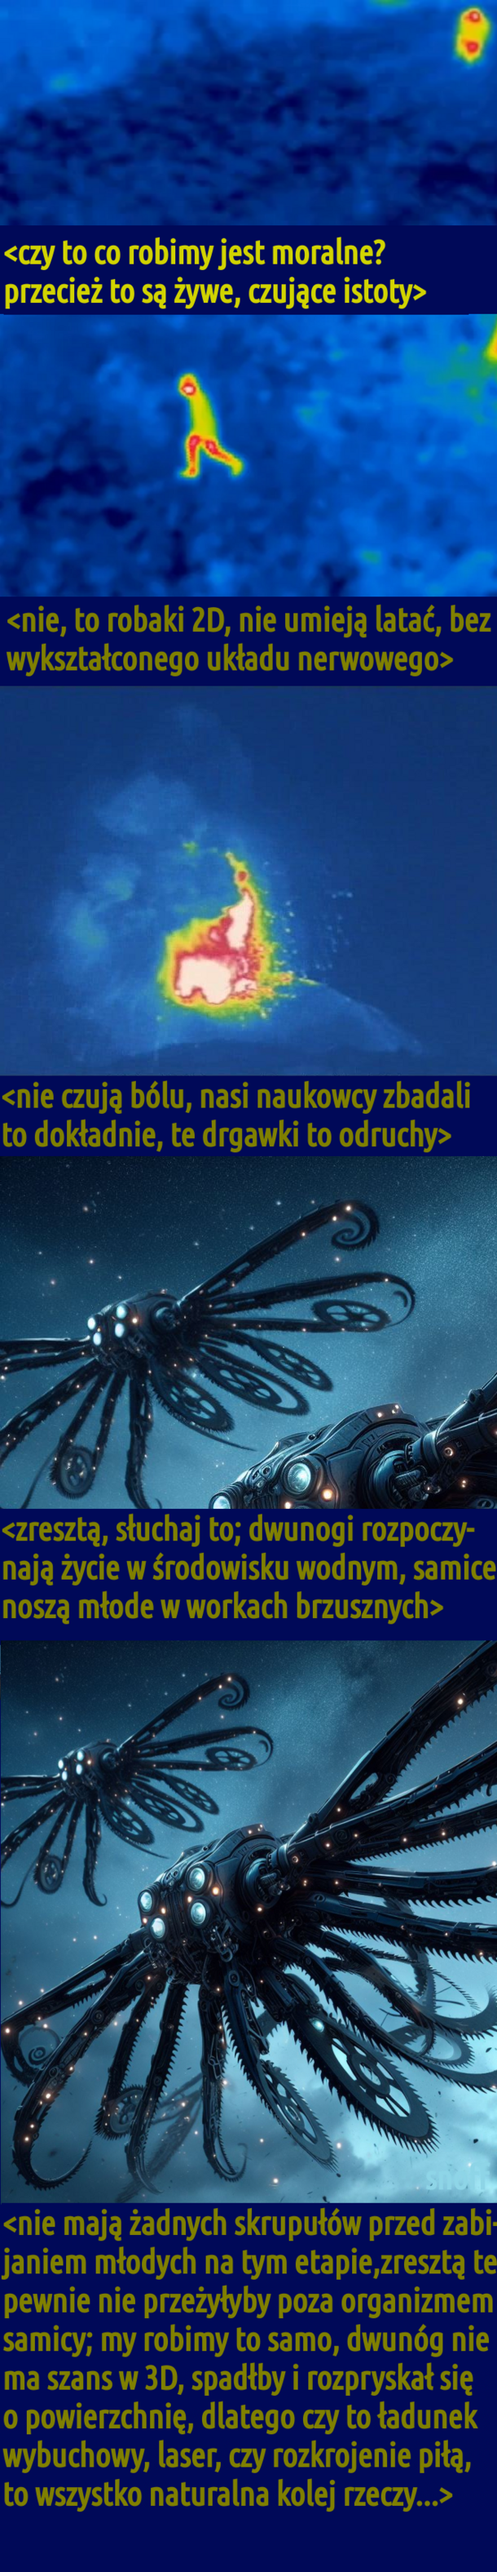
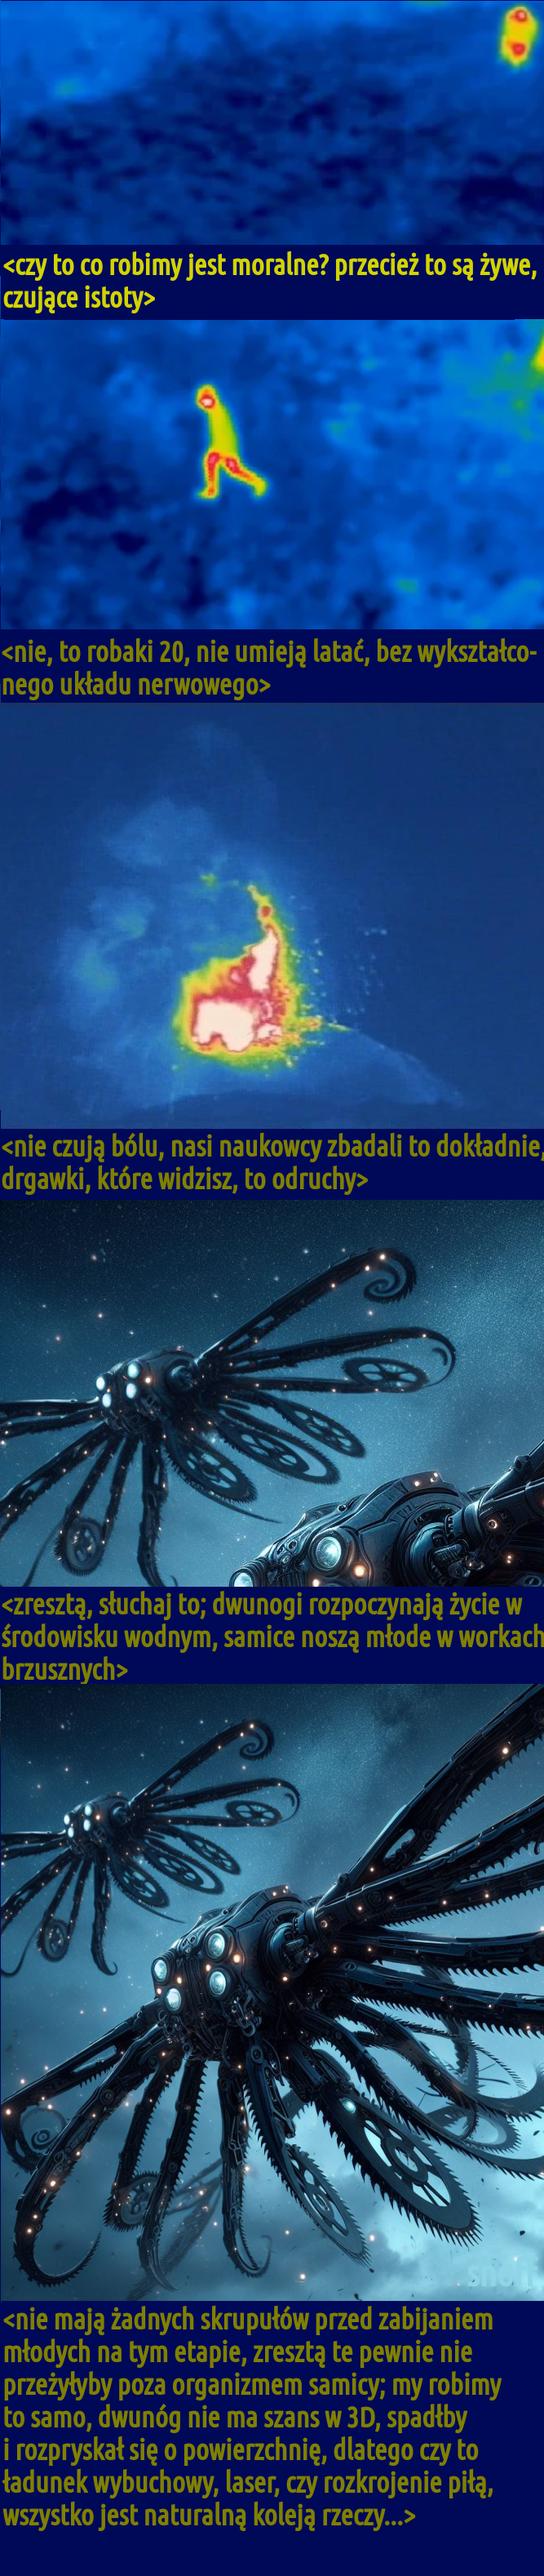
poprawki

diff --git a/img copy/linki.html b/img copy/linki.html
@@ -1,0 +1,161 @@
+https://jbzd.com.pl/obr/2657534/ostatnia-sztuczka
+https://jbzd.com.pl/obr/2686476/albo-z-ksiegowosci-dzisiaj-powtorzymy-sobie-obliczanie-swietego-zusu
+
+https://jbzd.com.pl/obr/2942798/pov-rozdupcanie-stalo-sie-twoim-fachem-i-droga-zycia
+https://jbzd.com.pl/obr/2942188/zla-czytanka
+https://jbzd.com.pl/obr/2946005/jez-jerzy
+
+https://jbzd.com.pl/obr/2699471/teramarket-ciezkie-czasy-ilustracje-wygenerowane-przez-si
+https://jbzd.com.pl/obr/2789021/jest-w-pyte
+https://jbzd.com.pl/obr/2956084/to-ja-gram-pornogrubasem
+https://jbzd.com.pl/obr/2962407/tradopozytwyna-osoba-pancerna
+https://jbzd.com.pl/obr/2977959/fastforward
+https://jbzd.com.pl/obr/2984703/czy-ty-jestes-gotow-dolaczyc-do-naszego-zakonu
+https://jbzd.com.pl/obr/2989792/czlonek-z-ramienia-wysuniety-na-czolo
+https://jbzd.com.pl/obr/2995458/unikalny-genetyczny-marker
+https://jbzd.com.pl/obr/3015106/w-koncu-cos-sensownego
+https://jbzd.com.pl/obr/3056679/rozkosz-ignoracji
+https://jbzd.com.pl/obr/3084968/ocalenie
+
+
+
+https://jbzd.com.pl/obr/2628316/memowalem-jakby-nie-bylo-jutra
+https://jbzd.com.pl/obr/2692801/terapeuta-postapo
+https://jbzd.com.pl/obr/2934885/w-sumie
+https://jbzd.com.pl/obr/2932148/ogarnijcie-sie-norma-nie-jest-wyrabiana-jak-chcecie-na-swierszcze-zarobic
+
+
+https://jbzd.com.pl/obr/2929937/musimy-usilnie-patrzec-w-przyszlosc
+https://jbzd.com.pl/obr/2943885/cholera-z-tymi-mutantami
+https://jbzd.com.pl/obr/2947153/hej-nie-ma-takiego-szabrowania-konserw
+https://jbzd.com.pl/obr/2946970/zyrant-plakal-ze-szczescia
+https://jbzd.com.pl/obr/2945940/alkohol-i-choroba-popromienna-nie-ida-w-parze
+https://jbzd.com.pl/obr/2945253/a-sasiadowi-zlodziejowy-odpalyl
+https://jbzd.com.pl/obr/2952100/no-i-zostaly-tu-zapasy-kawy
+https://jbzd.com.pl/obr/2950283/pioter-nie
+https://jbzd.com.pl/obr/2948812/wez-papucia-czy-cos
+https://jbzd.com.pl/obr/2948801/zuzywasz-prad-akumulatory-nie-sa-z-gumy
+https://jbzd.com.pl/obr/2955986/i-picie-i-wachanie-kleju
+https://jbzd.com.pl/obr/2955932/samogon-drugi-wszystko-moze-byc-waluta
+https://jbzd.com.pl/obr/2954022/muzyka-postapo-nasila-sie
+https://jbzd.com.pl/obr/2950280/stach-ma-wielkie-oczy-i-sople-na-futrze
+https://jbzd.com.pl/obr/2952278/to-se-ne-da-jak-mawial-seneka
+https://jbzd.com.pl/obr/2959418/polskie-jakostobedzie-polski-rozpierdolu-jestescie-nasza-ostania-nadzieja
+https://jbzd.com.pl/obr/2959402/krysytyna-jestesmy-bogaci
+https://jbzd.com.pl/obr/2957813/trzymajmy-sie-ramy
+https://jbzd.com.pl/obr/2957632/lamiesz-matce-sercee
+https://jbzd.com.pl/obr/2957228/za-drogo-dam-pietnascie-albo-dajcie-60
+https://jbzd.com.pl/obr/2956210/niech-plonie
+
+https://jbzd.com.pl/obr/2962374/wyjedzmin
+https://jbzd.com.pl/obr/2962342/kuchenne-postaporewolucje
+https://jbzd.com.pl/obr/2966150/zawsze-pomaga
+https://jbzd.com.pl/obr/2966006/drama-ze-wez
+https://jbzd.com.pl/obr/2973926/u-mnie-jak-w-banku-zawsze-oddam
+https://jbzd.com.pl/obr/2973822/moze-w-polacie-puszcza
+https://jbzd.com.pl/obr/2977585/grzybowa-bedzie-na-obiad
+https://jbzd.com.pl/obr/2976301/ja-owadozerny-w-zyciu
+https://jbzd.com.pl/obr/2976125/wojny-nie-bedzie-ale-rozgorzeje-taka-walka-o-pokoj-ze-kamien-na-kamieniu-nie-zostanie
+https://jbzd.com.pl/obr/2974329/kiedys-sie-policzymy
+https://jbzd.com.pl/obr/2974205/ja-tak-bez-zadnego-trybu
+https://jbzd.com.pl/obr/2980056/w-leju-po-bombie
+https://jbzd.com.pl/obr/2977613/i-polski-korpus-ochotniczy-za-wolnosc-wasza-i-nasza
+https://jbzd.com.pl/obr/2984914/kiedy-nieznacznie-wzrosl-poziom-promieniowania
+https://jbzd.com.pl/obr/2984415/wszystko-az-promienieje-od-piekna
+https://jbzd.com.pl/obr/2982831/niby-somsiad-a-szkoda-chlopa
+https://jbzd.com.pl/obr/2982819/tak-czy-siak-jestesmy-w-dupie
+https://jbzd.com.pl/obr/2981055/kazdemu-po-100-mln-kapsli
+https://jbzd.com.pl/obr/2988011/bladawce-na-slizgawce
+https://jbzd.com.pl/obr/2987722/musimy-zachowac-pozory-normalnosci-za-wszelka-cene
+https://jbzd.com.pl/obr/2986437/a-moze-po-prostu-bylem-mlodszy-albo-mniej-mutantow-sie-panoszylo
+https://jbzd.com.pl/obr/2986291/do-wygrania-talony-zywnosciowe-i-papier-toaletowy
+https://jbzd.com.pl/obr/2992394/laga-szkodnika
+https://jbzd.com.pl/obr/2993940/to-nie-ja
+https://jbzd.com.pl/obr/2993432/wiecie-co-to-znaczy
+https://jbzd.com.pl/obr/2992888/tymczasem-na-polu
+https://jbzd.com.pl/obr/2994946/ta-konstatacja-moze-byc-gorzka
+https://jbzd.com.pl/obr/3000935/rozdupcator-ii
+https://jbzd.com.pl/obr/3000622/tak-kaze-obyczaj
+https://jbzd.com.pl/obr/3000326/cwalem-do-krainy-wyobrazni
+https://jbzd.com.pl/obr/2998563/rytual
+https://jbzd.com.pl/obr/3005976/a-pamietacie-jak-przed-wojna-pruli-sie-o-zboze-techniczne
+https://jbzd.com.pl/obr/3005639/juz-niedlugo-w-kinach
+https://jbzd.com.pl/obr/3002319/wyjdzmy-na-korytarze
+https://jbzd.com.pl/obr/3002084/a-to-jest-jackass
+https://jbzd.com.pl/obr/3009775/to-musi-byc-meduza
+https://jbzd.com.pl/obr/3009105/maly-zgryz
+https://jbzd.com.pl/obr/3012092/wezme-te-spawarkie-i-zrobie-nam-nowy-dom
+https://jbzd.com.pl/obr/3011446/dobrze-ze-zmutowane-mieczaki-obrodzily-latos
+https://jbzd.com.pl/obr/3014035/zywio-i-bronio
+https://jbzd.com.pl/obr/3013547/zycie-to-spiew-zycie-to-taniec
+https://jbzd.com.pl/obr/3018862/ale-taka-kromke-to-bym-sobie
+https://jbzd.com.pl/obr/3016491/wielka-ksiega-jest-klamstwem
+https://jbzd.com.pl/obr/3015046/to-byl-2017
+https://jbzd.com.pl/obr/3021537/rekrutacja-idzie-na-rekord
+https://jbzd.com.pl/obr/3025201/wygnanie-z-rajchu-2023-olej
+https://jbzd.com.pl/obr/3023737/pech-i-tyle
+https://jbzd.com.pl/obr/3024163/rocznica-jakby-nie-bylo
+https://jbzd.com.pl/obr/3023887/hej-mlody-gwardzisto-smutek-zwalcz-i-strach-przeciez-na-tym-piachu-juz-za-kilka-lat-przebiegnie-z-pewnoscia-jasna-dluga-prosta-szeroka-jak-morze-trasa-lazienkowska
+https://jbzd.com.pl/obr/3028076/nowe-technologie-takie-sa
+https://jbzd.com.pl/obr/3026719/lipcowy-balwanek
+https://jbzd.com.pl/obr/3026577/ubogacenia-takie-sa
+https://jbzd.com.pl/obr/3026548/halyna-sie-wscieknie
+https://jbzd.com.pl/obr/3025351/postprawdy-takie-sa
+https://jbzd.com.pl/obr/3030704/jemniomy-atakuja
+https://jbzd.com.pl/obr/3030468/co-tam-lpg
+https://jbzd.com.pl/obr/3030120/pierwszy-kontakt-w-majowke
+https://jbzd.com.pl/obr/3029571/dziala-na-1-i-2-generacje-trzecia-jest-bezglosna
+https://jbzd.com.pl/obr/3029552/lojezu
+https://jbzd.com.pl/obr/3029504/w-sam-raz-pod-dobrze-zmrozona
+https://jbzd.com.pl/obr/3028719/mamy-to-na-sciezce-krytycznej
+https://jbzd.com.pl/obr/3033710/zeby-choc-konserwe-zupke-chinska
+https://jbzd.com.pl/obr/3032328/profesor-kupelweisser-ma-taki-program-wchodzisz
+https://jbzd.com.pl/obr/3031226/rozdzial-1-rage-comics
+https://jbzd.com.pl/obr/3036969/brak-wiadomosci-to-dobra-wiadomosc
+https://jbzd.com.pl/obr/3035537/wlasnie-tak
+https://jbzd.com.pl/obr/3035509/przedbudzenie
+https://jbzd.com.pl/obr/3033922/takie-kasety-to-skarb
+https://jbzd.com.pl/obr/3033780/borysek-ty-wiesz-co
+https://jbzd.com.pl/obr/3039684/cos-pozytecznego
+https://jbzd.com.pl/obr/3039442/a-moze-tak-monarchia-konstytucyjna-wszyscy-za-super
+https://jbzd.com.pl/obr/3038327/apokalipsy-takie-sa
+https://jbzd.com.pl/obr/3038276/taka-bomba-to-zrodlo-zlomu-a-i-teren-potrafi-wyrownac
+https://jbzd.com.pl/obr/3037036/o-ile-emp-nie-skasowalo-sprawdzimy-jak-wroci-prad
+https://jbzd.com.pl/obr/3045763/i-takie-sa-fakty-w-masie-jestesmy-latwi-do-sterowania
+https://jbzd.com.pl/obr/3045734/tak-tu-sie-powoli-zyje
+https://jbzd.com.pl/obr/3042717/pancerze-byly-potem-do-wymiany
+https://jbzd.com.pl/obr/3039877/do-tiurmy-z-dezinformantem
+https://jbzd.com.pl/obr/3039719/ja-ci-zaraz-dam-bajo-jajo
+https://jbzd.com.pl/obr/3051235/zawsze-moglo-padac
+https://jbzd.com.pl/obr/3048830/protopolacy
+https://jbzd.com.pl/obr/3047842/nuze-do-repopulacji-w-imie-naszej-swietnej-nacji-zrobmy-to-w-gis
+https://jbzd.com.pl/obr/3056324/tak-bedzie
+https://jbzd.com.pl/obr/3055842/swiatynia-wirusa
+https://jbzd.com.pl/obr/3054819/dzekpot-bejbe-nie-wiem-co-to-znaczy-ojciec-tak-mowili
+https://jbzd.com.pl/obr/3053262/antyswirus-na-imie-mam-antyswirus
+https://jbzd.com.pl/obr/3053248/jestes-wybrancem-poslancem
+https://jbzd.com.pl/obr/3052787/polskie-tajne-sily-balonowe
+https://jbzd.com.pl/obr/3061509/syllogomania
+https://jbzd.com.pl/obr/3059975/cyk-i-fajrant
+https://jbzd.com.pl/obr/3059694/papiery-mamy-w-porzadku
+https://jbzd.com.pl/obr/3057971/bo-kiedys-mlody-to-dopiero
+https://jbzd.com.pl/obr/3065570/nie-zaluje-niczego
+https://jbzd.com.pl/obr/3065105/nostalgia-taka-jest
+https://jbzd.com.pl/obr/3064772/doswiadczony-wiezien-lagru-czesto-zabieral-ze-soba-krowe
+https://jbzd.com.pl/obr/3063885/eating-pattern
+https://jbzd.com.pl/obr/3063533/kolysanka
+https://jbzd.com.pl/obr/3062539/czas-cudow-czary-i-dziwy-dym-siwy
+https://jbzd.com.pl/obr/3062139/w-sumie-racja
+https://jbzd.com.pl/obr/3068192/tedy-wielebny
+https://jbzd.com.pl/obr/3067022/tanczmy-spiewajmy-radujmy-sie
+https://jbzd.com.pl/obr/3066898/komsola
+https://jbzd.com.pl/obr/3066608/genezis-maup
+https://jbzd.com.pl/obr/3065894/kultowa-legenda-niesamowitosci
+https://jbzd.com.pl/obr/3070204/masz-trzy-pytania
+https://jbzd.com.pl/obr/3070149/jestesmy-oposy-robimy-cokolwiek-a-potem-heroicznie-padamy-na-pysk
+https://jbzd.com.pl/obr/3069457/nie-dotykaj-twarzy
+https://jbzd.com.pl/obr/3069019/pojedzie
+https://jbzd.com.pl/obr/3068620/na-szkoleniu-fajnie-jest
+https://jbzd.com.pl/obr/3070691/mozemy-cie-odbudowac
+https://jbzd.com.pl/obr/3081278/mitologia-schronu
+https://jbzd.com.pl/obr/3086177/marzenie-mam

diff --git a/index.html b/index.html
@@ -619,7 +619,7 @@
   </header>
   <input type="checkbox" class="expand-toggle" id="expand-20">
   <figure class="panel-figure">
-    <img src="img/tworzeniesymulacji.png" alt="tworzeniesymulacji.png" loading="lazy">
+    <img src="img/tworzeniesymulacji3.jpg" alt="tworzeniesymulacji.png" loading="lazy">
     <figcaption class="visually-hidden">Maupy Apokalipsy czyli Polska Postapo odc 15232, I niech to będzie skrzyżowanie kabaretu z horrorem</figcaption>
   </figure>
   <label for="expand-20" class="expand-label">kliknij, żeby rozwinąć</label>
